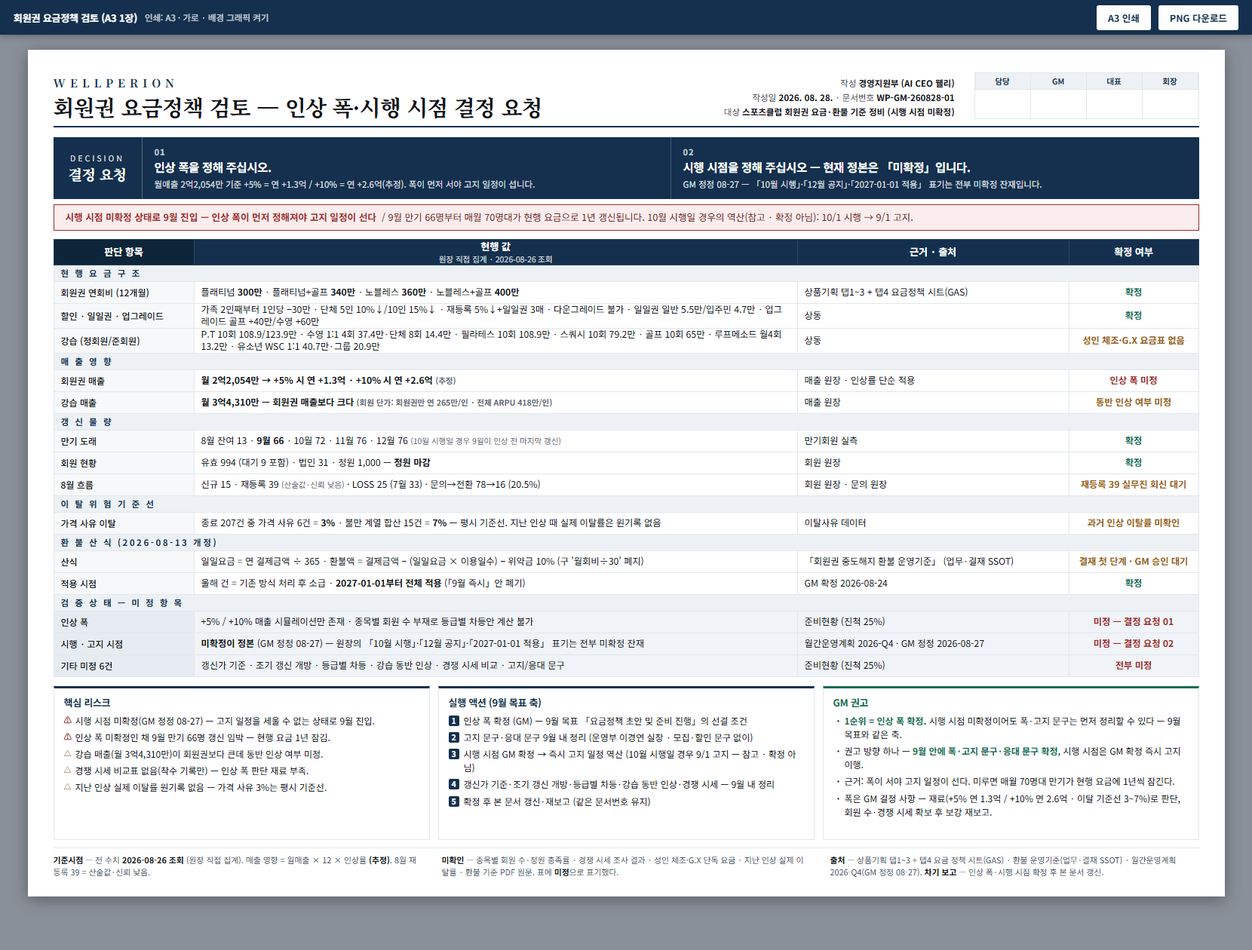
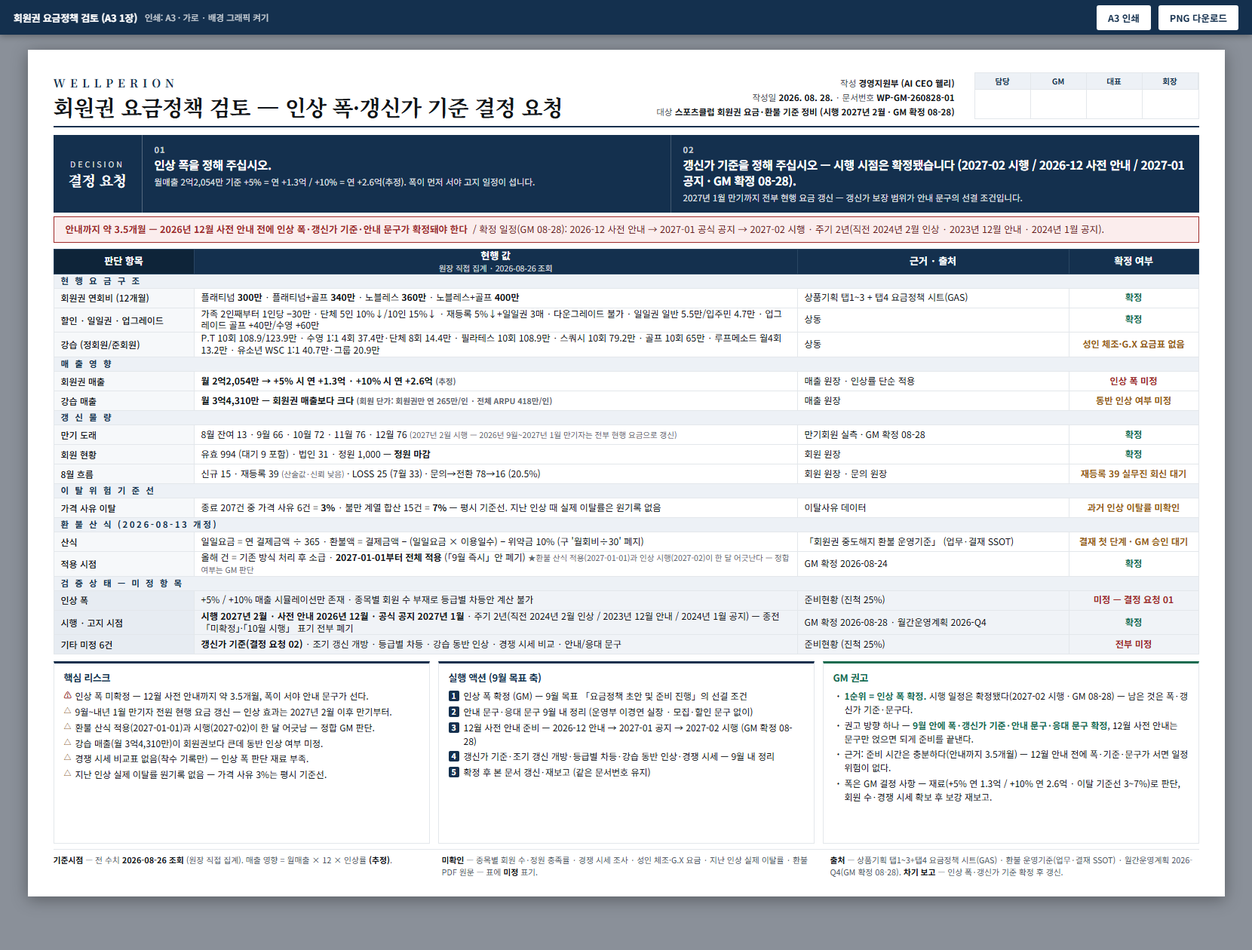
feat(ceo): 요금 인상 시행 시점 GM 확정 반영 — 2027-02 시행·2026-12 안내·2027-01 공지 (배11045·11048)

diff --git a/3. 웰페리온 가이드/reports/260828_회원권요금정책_A3.html b/3. 웰페리온 가이드/reports/260828_회원권요금정책_A3.html
@@ -2,7 +2,7 @@
 <html lang="ko">
 <head>
 <meta charset="UTF-8">
-<title>회원권 요금정책 검토 — 인상 폭·시행 시점 결정 요청 (웰페리온 A3)</title>
+<title>회원권 요금정책 검토 — 인상 폭·갱신가 기준 결정 요청 (웰페리온 A3)</title>
 <link rel="preconnect" href="https://fonts.googleapis.com">
 <link rel="preconnect" href="https://fonts.gstatic.com" crossorigin>
 <link href="https://fonts.googleapis.com/css2?family=Noto+Sans+KR:wght@400;500;700;900&family=Noto+Serif+KR:wght@600;700&display=swap" rel="stylesheet">
@@ -47,7 +47,7 @@
   .sign .b{ height:38px; }
 
   /* ② 결정 요청 */
-  .ask{ margin-top:13px; background:var(--navy); color:#fff; display:flex; align-items:stretch; }
+  .ask{ margin-top:10px; background:var(--navy); color:#fff; display:flex; align-items:stretch; }
   .ask .lb{ width:118px; flex:none; display:flex; flex-direction:column; align-items:center; justify-content:center;
     border-right:1px solid rgba(255,255,255,.28); }
   .ask .lb span{ font-size:10.5px; letter-spacing:3px; opacity:.85; }
@@ -60,20 +60,20 @@
   .ask .d{ font-size:11.5px; line-height:1.5; opacity:.86; margin-top:4px; }
 
   /* 경고 밴드 */
-  .alert{ margin-top:7px; background:#FBEDED; border:1.5px solid var(--bad); color:var(--bad);
+  .alert{ margin-top:5px; background:#FBEDED; border:1.5px solid var(--bad); color:var(--bad);
     padding:7px 15px; font-size:12.6px; font-weight:700; line-height:1.5; }
   .alert span{ font-weight:400; color:#6B2020; }
 
   /* ③ 비교표 */
-  .tblwrap{ margin-top:11px; }
+  .tblwrap{ margin-top:8px; }
   table{ width:100%; border-collapse:collapse; table-layout:fixed; }
   th,td{ border:1px solid var(--line); padding:0 9px; font-size:12.2px; line-height:1.3; }
-  thead th{ height:34px; background:var(--navy); color:#fff; font-weight:700; font-size:13px; border-color:#2A4763; }
+  thead th{ height:30px; background:var(--navy); color:#fff; font-weight:700; font-size:13px; border-color:#2A4763; }
   thead th.k{ width:186px; background:#0E2439; }
   thead th .sub{ display:block; font-size:10.5px; font-weight:400; opacity:.8; margin-top:1px; }
-  tbody td{ height:29px; }
+  tbody td{ height:26px; }
   td.k{ background:#F6F8FA; font-weight:500; font-size:12px; }
-  tr.grp td{ height:22px; background:var(--navy-bg); color:var(--navy); font-weight:700;
+  tr.grp td{ height:19px; background:var(--navy-bg); color:var(--navy); font-weight:700;
     font-size:11.5px; letter-spacing:2.5px; }
   .num{ text-align:right; font-variant-numeric:tabular-nums; }
   .ctr{ text-align:center; }
@@ -86,11 +86,11 @@
   tr.sum td.k{ background:#E7ECF2; }
 
   /* ④ 3분할 */
-  .cols{ margin-top:12px; display:flex; gap:11px; flex:1; }
+  .cols{ margin-top:9px; display:flex; gap:11px; flex:1; }
   .box{ flex:1; border:1px solid var(--line); border-top:3px solid var(--navy); padding:9px 13px 8px; }
   .box h3{ font-size:13px; font-weight:700; color:var(--navy); letter-spacing:-.3px; margin-bottom:6px; }
   .box ul{ list-style:none; }
-  .box li{ font-size:12px; line-height:1.52; padding-left:15px; position:relative; margin-bottom:4px; }
+  .box li{ font-size:12px; line-height:1.48; padding-left:15px; position:relative; margin-bottom:3px; }
   .box li::before{ content:'·'; position:absolute; left:5px; font-weight:700; }
   .box li.r1::before{ content:'⚠'; left:0; font-size:10.5px; color:var(--bad); }
   .box li.r2::before{ content:'△'; left:0; font-size:10px; color:var(--warn); }
@@ -103,7 +103,7 @@
   .box.rec b{ color:var(--good); }
 
   /* ⑤ 각주 */
-  .foot{ margin-top:10px; border-top:1px solid var(--line); padding-top:7px;
+  .foot{ margin-top:7px; border-top:1px solid var(--line); padding-top:5px;
     display:flex; gap:26px; font-size:10.8px; line-height:1.55; color:#48525B; }
   .foot div{ flex:1; }
   .foot b{ color:var(--ink); }
@@ -125,12 +125,12 @@
   <div class="head">
     <div>
       <div class="brand">WELLPERION</div>
-      <div class="title">회원권 요금정책 검토 — 인상 폭·시행 시점 결정 요청</div>
+      <div class="title">회원권 요금정책 검토 — 인상 폭·갱신가 기준 결정 요청</div>
     </div>
     <div class="meta">
       작성 <b>경영지원부 (AI CEO 웰리)</b><br>
       작성일 <b>2026. 08. 28.</b> · 문서번호 <b>WP-GM-260828-01</b><br>
-      대상 <b>스포츠클럽 회원권 요금·환불 기준 정비 (시행 시점 미확정)</b>
+      대상 <b>스포츠클럽 회원권 요금·환불 기준 정비 (시행 2027년 2월 · GM 확정 08-28)</b>
     </div>
     <div class="sign">
       <div><div class="t">담당</div><div class="b"></div></div>
@@ -151,16 +151,16 @@
       </div>
       <div class="it">
         <div class="n">02</div>
-        <div class="q">시행 시점을 정해 주십시오 — 현재 정본은 「미확정」입니다.</div>
-        <div class="d">GM 정정 08-27 — 「10월 시행」·「12월 공지」·「2027-01-01 적용」 표기는 전부 미확정 잔재입니다.</div>
+        <div class="q">갱신가 기준을 정해 주십시오 — 시행 시점은 확정됐습니다 (2027-02 시행 / 2026-12 사전 안내 / 2027-01 공지 · GM 확정 08-28).</div>
+        <div class="d">2027년 1월 만기까지 전부 현행 요금 갱신 — 갱신가 보장 범위가 안내 문구의 선결 조건입니다.</div>
       </div>
     </div>
   </div>
 
   <!-- 경고 밴드 -->
   <div class="alert">
-    시행 시점 미확정 상태로 9월 진입 — 인상 폭이 먼저 정해져야 고지 일정이 선다
-    <span>&nbsp;/ 9월 만기 66명부터 매월 70명대가 현행 요금으로 1년 갱신됩니다. 10월 시행일 경우의 역산(참고 · 확정 아님): 10/1 시행 → 9/1 고지.</span>
+    안내까지 약 3.5개월 — 2026년 12월 사전 안내 전에 인상 폭·갱신가 기준·안내 문구가 확정돼야 한다
+    <span>&nbsp;/ 확정 일정(GM 08-28): 2026-12 사전 안내 → 2027-01 공식 공지 → 2027-02 시행 · 주기 2년(직전 2024년 2월 인상 · 2023년 12월 안내 · 2024년 1월 공지).</span>
   </div>
 
   <!-- ③ 판단표 -->
@@ -186,7 +186,7 @@
       <tr><td class="k">강습 매출</td><td class="strong">월 3억4,310만 — 회원권 매출보다 크다 <span class="est">(회원 단가: 회원권만 연 265만/인 · 전체 ARPU 418만/인)</span></td><td>매출 원장</td><td class="ctr warn">동반 인상 여부 미정</td></tr>
 
       <tr class="grp"><td colspan="4">갱 신 물 량</td></tr>
-      <tr><td class="k">만기 도래</td><td>8월 잔여 13 · <b>9월 66</b> · 10월 72 · 11월 76 · 12월 76 <span class="est">(10월 시행일 경우 9월이 인상 전 마지막 갱신)</span></td><td>만기회원 실측</td><td class="ctr good">확정</td></tr>
+      <tr><td class="k">만기 도래</td><td>8월 잔여 13 · 9월 66 · 10월 72 · 11월 76 · 12월 76 <span class="est">(2027년 2월 시행 — 2026년 9월~2027년 1월 만기자는 전부 현행 요금으로 갱신)</span></td><td>만기회원 실측 · GM 확정 08-28</td><td class="ctr good">확정</td></tr>
       <tr><td class="k">회원 현황</td><td>유효 994 (대기 9 포함) · 법인 31 · 정원 1,000 — <b>정원 마감</b></td><td>회원 원장</td><td class="ctr good">확정</td></tr>
       <tr><td class="k">8월 흐름</td><td>신규 15 · 재등록 39 <span class="est">(산술값·신뢰 낮음)</span> · LOSS 25 (7월 33) · 문의→전환 78→16 (20.5%)</td><td>회원 원장 · 문의 원장</td><td class="ctr warn">재등록 39 실무진 회신 대기</td></tr>
 
@@ -195,12 +195,12 @@
 
       <tr class="grp"><td colspan="4">환 불 산 식 (2026-08-13 개정)</td></tr>
       <tr><td class="k">산식</td><td>일일요금 = 연 결제금액 ÷ 365 · 환불액 = 결제금액 − (일일요금 × 이용일수) − 위약금 10% (구 '월회비÷30' 폐지)</td><td>「회원권 중도해지 환불 운영기준」 (업무·결재 SSOT)</td><td class="ctr warn">결재 첫 단계 · GM 승인 대기</td></tr>
-      <tr><td class="k">적용 시점</td><td>올해 건 = 기존 방식 처리 후 소급 · <b>2027-01-01부터 전체 적용</b> (「9월 즉시」안 폐기)</td><td>GM 확정 2026-08-24</td><td class="ctr good">확정</td></tr>
+      <tr><td class="k">적용 시점</td><td>올해 건 = 기존 방식 처리 후 소급 · <b>2027-01-01부터 전체 적용</b> (「9월 즉시」안 폐기) <span class="est">★환불 산식 적용(2027-01-01)과 인상 시행(2027-02)이 한 달 어긋난다 — 정합 여부는 GM 판단</span></td><td>GM 확정 2026-08-24</td><td class="ctr good">확정</td></tr>
 
       <tr class="grp"><td colspan="4">검 증 상 태 — 미 정 항 목</td></tr>
       <tr class="sum"><td class="k">인상 폭</td><td>+5% / +10% 매출 시뮬레이션만 존재 · 종목별 회원 수 부재로 등급별 차등안 계산 불가</td><td>준비현황 (진척 25%)</td><td class="ctr bad strong">미정 — 결정 요청 01</td></tr>
-      <tr class="sum"><td class="k">시행 · 고지 시점</td><td><b>미확정이 정본</b> (GM 정정 08-27) — 원장의 「10월 시행」·「12월 공지」·「2027-01-01 적용」 표기는 전부 미확정 잔재</td><td>월간운영계획 2026-Q4 · GM 정정 2026-08-27</td><td class="ctr bad strong">미정 — 결정 요청 02</td></tr>
-      <tr class="sum"><td class="k">기타 미정 6건</td><td>갱신가 기준 · 조기 갱신 개방 · 등급별 차등 · 강습 동반 인상 · 경쟁 시세 비교 · 고지/응대 문구</td><td>준비현황 (진척 25%)</td><td class="ctr bad strong">전부 미정</td></tr>
+      <tr class="sum"><td class="k">시행 · 고지 시점</td><td><b>시행 2027년 2월 · 사전 안내 2026년 12월 · 공식 공지 2027년 1월</b> · 주기 2년(직전 2024년 2월 인상 / 2023년 12월 안내 / 2024년 1월 공지) — 종전 「미확정」·「10월 시행」 표기 전부 폐기</td><td>GM 확정 2026-08-28 · 월간운영계획 2026-Q4</td><td class="ctr good strong">확정</td></tr>
+      <tr class="sum"><td class="k">기타 미정 6건</td><td><b>갱신가 기준(결정 요청 02)</b> · 조기 갱신 개방 · 등급별 차등 · 강습 동반 인상 · 경쟁 시세 비교 · 안내/응대 문구</td><td>준비현황 (진척 25%)</td><td class="ctr bad strong">전부 미정</td></tr>
     </tbody>
   </table>
   </div>
@@ -210,8 +210,9 @@
     <div class="box">
       <h3>핵심 리스크</h3>
       <ul>
-        <li class="r1">시행 시점 미확정(GM 정정 08-27) — 고지 일정을 세울 수 없는 상태로 9월 진입.</li>
-        <li class="r1">인상 폭 미확정인 채 9월 만기 66명 갱신 임박 — 현행 요금 1년 잠김.</li>
+        <li class="r1">인상 폭 미확정 — 12월 사전 안내까지 약 3.5개월, 폭이 서야 안내 문구가 선다.</li>
+        <li class="r2">9월~내년 1월 만기자 전원 현행 요금 갱신 — 인상 효과는 2027년 2월 이후 만기부터.</li>
+        <li class="r2">환불 산식 적용(2027-01-01)과 시행(2027-02)이 한 달 어긋남 — 정합 GM 판단.</li>
         <li class="r2">강습 매출(월 3억4,310만)이 회원권보다 큰데 동반 인상 여부 미정.</li>
         <li class="r2">경쟁 시세 비교표 없음(착수 기록만) — 인상 폭 판단 재료 부족.</li>
         <li class="r2">지난 인상 실제 이탈률 원기록 없음 — 가격 사유 3%는 평시 기준선.</li>
@@ -221,8 +222,8 @@
       <h3>실행 액션 (9월 목표 축)</h3>
       <ul class="ord">
         <li class="n">인상 폭 확정 (GM) — 9월 목표 「요금정책 초안 및 준비 진행」의 선결 조건</li>
-        <li class="n">고지 문구·응대 문구 9월 내 정리 (운영부 이경연 실장 · 모집·할인 문구 없이)</li>
-        <li class="n">시행 시점 GM 확정 → 즉시 고지 일정 역산 (10월 시행일 경우 9/1 고지 — 참고 · 확정 아님)</li>
+        <li class="n">안내 문구·응대 문구 9월 내 정리 (운영부 이경연 실장 · 모집·할인 문구 없이)</li>
+        <li class="n">12월 사전 안내 준비 — 2026-12 안내 → 2027-01 공지 → 2027-02 시행 (GM 확정 08-28)</li>
         <li class="n">갱신가 기준·조기 갱신 개방·등급별 차등·강습 동반 인상·경쟁 시세 — 9월 내 정리</li>
         <li class="n">확정 후 본 문서 갱신·재보고 (같은 문서번호 유지)</li>
       </ul>
@@ -230,9 +231,9 @@
     <div class="box rec">
       <h3>GM 권고</h3>
       <ul>
-        <li><b>1순위 = 인상 폭 확정.</b> 시행 시점 미확정이어도 폭·고지 문구는 먼저 정리할 수 있다 — 9월 목표와 같은 축.</li>
-        <li>권고 방향 하나 — <b>9월 안에 폭·고지 문구·응대 문구 확정</b>, 시행 시점은 GM 확정 즉시 고지 이행.</li>
-        <li>근거: 폭이 서야 고지 일정이 선다. 미루면 매월 70명대 만기가 현행 요금에 1년씩 잠긴다.</li>
+        <li><b>1순위 = 인상 폭 확정.</b> 시행 일정은 확정됐다(2027-02 시행 · GM 08-28) — 남은 것은 폭·갱신가 기준·문구다.</li>
+        <li>권고 방향 하나 — <b>9월 안에 폭·갱신가 기준·안내 문구·응대 문구 확정</b>, 12월 사전 안내는 문구만 얹으면 되게 준비를 끝낸다.</li>
+        <li>근거: 준비 시간은 충분하다(안내까지 3.5개월) — 12월 안내 전에 폭·기준·문구가 서면 일정 위험이 없다.</li>
         <li>폭은 GM 결정 사항 — 재료(+5% 연 1.3억 / +10% 연 2.6억 · 이탈 기준선 3~7%)로 판단, 회원 수·경쟁 시세 확보 후 보강 재보고.</li>
       </ul>
     </div>
@@ -240,9 +241,9 @@
 
   <!-- ⑤ 각주 -->
   <div class="foot">
-    <div><b>기준시점</b> — 전 수치 <b>2026-08-26 조회</b> (원장 직접 집계). 매출 영향 = 월매출 × 12 × 인상률 <b>(추정)</b>. 8월 재등록 39 = 산술값·신뢰 낮음.</div>
-    <div><b>미확인</b> — 종목별 회원 수·정원 충족률 · 경쟁 시세 조사 결과 · 성인 체조·G.X 단독 요금 · 지난 인상 실제 이탈률 · 환불 기준 PDF 원문. 표에 <b>미정</b>으로 표기했다.</div>
-    <div><b>출처</b> — 상품기획 탭1~3 + 탭4 요금 정책 시트(GAS) · 환불 운영기준(업무·결재 SSOT) · 월간운영계획 2026-Q4(GM 정정 08-27). <b>차기 보고</b> — 인상 폭·시행 시점 확정 후 본 문서 갱신.</div>
+    <div><b>기준시점</b> — 전 수치 <b>2026-08-26 조회</b> (원장 직접 집계). 매출 영향 = 월매출 × 12 × 인상률 <b>(추정)</b>.</div>
+    <div><b>미확인</b> — 종목별 회원 수·정원 충족률 · 경쟁 시세 조사 · 성인 체조·G.X 요금 · 지난 인상 실제 이탈률 · 환불 PDF 원문 — 표에 <b>미정</b> 표기.</div>
+    <div><b>출처</b> — 상품기획 탭1~3+탭4 요금정책 시트(GAS) · 환불 운영기준(업무·결재 SSOT) · 월간운영계획 2026-Q4(GM 확정 08-28). <b>차기 보고</b> — 인상 폭·갱신가 기준 확정 후 갱신.</div>
   </div>
 
 </div>

diff --git a/3. 웰페리온 가이드/reports/260828_4분기_방향및계획_A3.html b/3. 웰페리온 가이드/reports/260828_4분기_방향및계획_A3.html
@@ -47,7 +47,7 @@
   .sign .b{ height:38px; }
 
   /* ② 결정 요청 */
-  .ask{ margin-top:13px; background:var(--navy); color:#fff; display:flex; align-items:stretch; }
+  .ask{ margin-top:10px; background:var(--navy); color:#fff; display:flex; align-items:stretch; }
   .ask .lb{ width:118px; flex:none; display:flex; flex-direction:column; align-items:center; justify-content:center;
     border-right:1px solid rgba(255,255,255,.28); }
   .ask .lb span{ font-size:10.5px; letter-spacing:3px; opacity:.85; }
@@ -60,20 +60,20 @@
   .ask .d{ font-size:11.5px; line-height:1.5; opacity:.86; margin-top:4px; }
 
   /* 경고 밴드 */
-  .alert{ margin-top:7px; background:#FBEDED; border:1.5px solid var(--bad); color:var(--bad);
+  .alert{ margin-top:5px; background:#FBEDED; border:1.5px solid var(--bad); color:var(--bad);
     padding:7px 15px; font-size:12.6px; font-weight:700; line-height:1.5; }
   .alert span{ font-weight:400; color:#6B2020; }
 
   /* ③ 비교표 */
-  .tblwrap{ margin-top:11px; }
+  .tblwrap{ margin-top:8px; }
   table{ width:100%; border-collapse:collapse; table-layout:fixed; }
   th,td{ border:1px solid var(--line); padding:0 9px; font-size:12.2px; line-height:1.3; }
-  thead th{ height:34px; background:var(--navy); color:#fff; font-weight:700; font-size:13px; border-color:#2A4763; }
+  thead th{ height:30px; background:var(--navy); color:#fff; font-weight:700; font-size:13px; border-color:#2A4763; }
   thead th.k{ width:186px; background:#0E2439; }
   thead th .sub{ display:block; font-size:10.5px; font-weight:400; opacity:.8; margin-top:1px; }
-  tbody td{ height:29px; }
+  tbody td{ height:26px; }
   td.k{ background:#F6F8FA; font-weight:500; font-size:12px; }
-  tr.grp td{ height:22px; background:var(--navy-bg); color:var(--navy); font-weight:700;
+  tr.grp td{ height:19px; background:var(--navy-bg); color:var(--navy); font-weight:700;
     font-size:11.5px; letter-spacing:2.5px; }
   .num{ text-align:right; font-variant-numeric:tabular-nums; }
   .ctr{ text-align:center; }
@@ -86,11 +86,11 @@
   tr.sum td.k{ background:#E7ECF2; }
 
   /* ④ 3분할 */
-  .cols{ margin-top:12px; display:flex; gap:11px; flex:1; }
+  .cols{ margin-top:9px; display:flex; gap:11px; flex:1; }
   .box{ flex:1; border:1px solid var(--line); border-top:3px solid var(--navy); padding:9px 13px 8px; }
   .box h3{ font-size:13px; font-weight:700; color:var(--navy); letter-spacing:-.3px; margin-bottom:6px; }
   .box ul{ list-style:none; }
-  .box li{ font-size:12px; line-height:1.52; padding-left:15px; position:relative; margin-bottom:4px; }
+  .box li{ font-size:12px; line-height:1.48; padding-left:15px; position:relative; margin-bottom:3px; }
   .box li::before{ content:'·'; position:absolute; left:5px; font-weight:700; }
   .box li.r1::before{ content:'⚠'; left:0; font-size:10.5px; color:var(--bad); }
   .box li.r2::before{ content:'△'; left:0; font-size:10px; color:var(--warn); }
@@ -103,7 +103,7 @@
   .box.rec b{ color:var(--good); }
 
   /* ⑤ 각주 */
-  .foot{ margin-top:10px; border-top:1px solid var(--line); padding-top:7px;
+  .foot{ margin-top:7px; border-top:1px solid var(--line); padding-top:5px;
     display:flex; gap:26px; font-size:10.8px; line-height:1.55; color:#48525B; }
   .foot div{ flex:1; }
   .foot b{ color:var(--ink); }
@@ -130,7 +130,7 @@
     <div class="meta">
       작성 <b>경영지원부 (AI CEO 웰리)</b><br>
       작성일 <b>2026. 08. 28.</b> · 문서번호 <b>WP-GM-260828-01</b><br>
-      방향 정본 <b>GM 확정 2026-08-26</b> — 3단계 브랜드 구축 + 회원권 요금 인상 준비
+      방향 정본 <b>GM 확정 2026-08-26</b> — 3단계 브랜드 구축 + 회원권 요금 인상 준비 · 요금 일정 <b>GM 확정 08-28</b>
     </div>
     <div class="sign">
       <div><div class="t">담당</div><div class="b"></div></div>
@@ -146,8 +146,8 @@
     <div class="items">
       <div class="it">
         <div class="n">01</div>
-        <div class="q">회원권 요금 인상 시행 시점을 정해 주십시오 — 정해지기 전에는 고지·헬스장 장비 교체·법인 멤버십 판매 일정이 전부 매달려 있습니다.</div>
-        <div class="d">현재 정본 = 미확정(GM 정정 08-27: 시행 시점은 10월이 아니다). 세 표기(10월·12월·2027-01)는 전부 미확정 잔재.</div>
+        <div class="q">지원부·경영지원 4분기 목표를 확정해 주십시오 — 요금 인상 시행 시점은 확정됐습니다 (2027-02 시행 / 2026-12 사전 안내 / 2027-01 공지 · GM 확정 08-28).</div>
+        <div class="d">5개 부서 draft 중 지원부(95% 목표 연장 여부)·경영지원(나우열M)만 목표 미정. 인상 폭은 별지 요금정책 A3에서 결정 요청.</div>
       </div>
       <div class="it">
         <div class="n">02</div>
@@ -178,20 +178,20 @@
     </thead>
     <tbody>
       <tr class="grp"><td colspan="5">4 분 기 &nbsp;판 — 부 서 &nbsp;목 표 · 월 별 &nbsp;(5 부 서 &nbsp;전 부 &nbsp;DRAFT · 원 장 &nbsp;값 &nbsp;그 대 로)</td></tr>
-      <tr class="sum"><td class="k">운영부</td><td>10월 공사 안내·통제 + 법인 응대 준비 / 11월 회장님 3종 지원 / 12월 송년회·접수처 적체 해소</td><td class="ctr">—</td><td class="ctr">draft — 요금 인상 고지·응대 준비 + 상가·주차 운영 안정화</td><td>목표 확정 · 지표 미연결(점검 집계 경로 문제)</td></tr>
+      <tr class="sum"><td class="k">운영부</td><td>10월 공사 안내·통제 + 법인 응대 준비 / 11월 회장님 3종 지원 / 12월 송년회·접수처 적체 해소</td><td class="ctr">—</td><td class="ctr">draft — 요금 인상 사전 안내 준비(2026-12) + 상가·주차 운영 안정화</td><td>목표 확정 · 지표 미연결(점검 집계 경로 문제)</td></tr>
       <tr class="sum"><td class="k">시설부</td><td>10월 공사 관리·헬스장 비딩 결론 / 11월 전기 11/10·설비 3종 / 12월 소방 12/18(대상 확인)·CCTV 이관</td><td class="ctr">—</td><td class="ctr">draft — 법정·정기 점검 기한 준수 + 설비 교체 마무리</td><td>목표 확정 · 지표=점검 회차 기준(완료율 아님)</td></tr>
-      <tr class="sum"><td class="k">지원부 · 경영지원</td><td class="ctr">10~12월 전부 <span class="bad">미정</span></td><td class="ctr">—</td><td class="ctr bad">draft — 목표 자체 미정</td><td class="strong">지원부=GM·이경연 실장(3분기 95% 연장 여부) / 경영지원=나우열M(AI 불개입)</td></tr>
+      <tr class="sum"><td class="k">지원부 · 경영지원</td><td class="ctr">10~12월 전부 <span class="bad">미정</span></td><td class="ctr">—</td><td class="ctr bad">draft — 목표 자체 미정</td><td class="strong">결정 01 — 지원부=GM·이경연 실장(95% 연장 여부) / 경영지원=나우열M</td></tr>
       <tr class="sum"><td class="k">주차관리부</td><td>10월 통제·10/13 정상 복귀 / 11월 집계 가동 확인(실데이터 0) / 12월 주차 매출 월 마감 정합</td><td class="ctr">—</td><td class="ctr">draft — 바닥보수 후 정상 복귀 + 점검 집계 경로 가동</td><td>목표 확정 · 집계 폴백 수리 뒤 지표 연결</td></tr>
       <tr class="grp"><td colspan="5">시 설 · 설 비 &nbsp;밸 류 업</td></tr>
       <tr><td class="k">주차장 바닥보수공사</td><td class="ctr">10/11 작업 · 10/12(월·영업일) 양생 전면통제 · 10/13 정상</td><td class="ctr bad">공사비 미확인 — 원장 어디에도 없음</td><td class="ctr">65%</td><td>대체 주차 면수 확정 → 상가·회원 공지 (현재 발송 불가)</td></tr>
-      <tr><td class="k">헬스장 장비 교체 (4사 비딩)</td><td class="ctr">요금 인상 1개월 전 완료 — 시행 시점(결정 01)에 종속</td><td class="ctr bad">전액 미정 — 같은 조건 견적 0건</td><td class="ctr">50%</td><td>사양 통일 재견적 → 4사 비교 후 결재</td></tr>
+      <tr><td class="k">헬스장 장비 교체 (4사 비딩)</td><td class="ctr">사전 안내 한 달 전 = <b>2026-11 완료</b> (GM 08-28 역산)</td><td class="ctr bad">전액 미정 — 같은 조건 견적 0건</td><td class="ctr">50%</td><td>사양 통일 재견적 → 4사 비교 후 결재</td></tr>
       <tr><td class="k">CCTV·무인경비·출입통제</td><td class="ctr">SK브로드밴드 12/31 종료 · 공사 약 10일</td><td class="ctr">무인경비 월 13만 / CCTV 월 75만 → 100대 재산정</td><td>무인경비 <span class="good">서명 완료 8/25</span> · CCTV <span class="bad">본계약 미체결</span> (80%)</td><td class="strong">결정 02 — 재견적 회수 즉시 본계약</td></tr>
-      <tr><td class="k">회장님 보고건 3종 <span class="est">소독기·사우나 입구·드라이기</span></td><td class="ctr">11/30 — “인상 공지 한 달 전 완료” 명기 <span class="est">(시행월 미확정)</span></td><td class="ctr">미확인</td><td class="ctr">진행 중</td><td>시행 시점(결정 01) 확정 시 기한 재검토</td></tr>
+      <tr><td class="k">회장님 보고건 3종 <span class="est">소독기·사우나 입구·드라이기</span></td><td class="ctr">11/30 = <b>12월 사전 안내 한 달 전</b> (확정 · GM 08-28)</td><td class="ctr">미확인</td><td class="ctr">진행 중</td><td>기한 기준 확정 — 11/30 유지</td></tr>
 
       <tr class="grp"><td colspan="5">요 금 &nbsp;인 상 &nbsp;준 비 · 매 출</td></tr>
-      <tr><td class="k">회원권 요금 인상</td><td class="ctr bad">시행월 미확정 (GM 정정 08-27) — 원장 세 표기 전부 잔재</td><td class="ctr">+5% 월 1,103만 / +10% 월 2,205만 <span class="est">(추정)</span></td><td class="ctr">25%</td><td class="strong">결정 01 — 시행 시점·인상폭 확정</td></tr>
+      <tr><td class="k">회원권 요금 인상</td><td class="ctr good">2027-02 시행 / 2026-12 안내 / 2027-01 공지 (GM 08-28·주기 2년)</td><td class="ctr">+5% 월 1,103만 / +10% 월 2,205만 <span class="est">(추정)</span></td><td class="ctr">25%</td><td class="strong">인상 폭 확정(별지 요금정책 A3) → 12월 안내 문구 준비</td></tr>
       <tr><td class="k">법인 멤버십 판매</td><td class="ctr">10/31 판매 시작</td><td class="ctr">미확인</td><td class="ctr warn">30% — 접촉 0건</td><td>9월 중 대상 법인 접촉 개시</td></tr>
-      <tr><td class="k">갱신(만기) 물량</td><td class="ctr">9월 66명(인상 전 마지막) · 10월 72 · 11월 76 · 12월 76</td><td class="ctr">—</td><td class="ctr">가격 사유 이탈 = 종료 207건 중 6건(3%)</td><td>9월 갱신 안내 문안 — 인상 반영 여부는 결정 01에 종속</td></tr>
+      <tr><td class="k">갱신(만기) 물량</td><td class="ctr">9월 66·10월 72·11월 76·12월 76 — <b>2027-01까지 전부 현행 갱신</b></td><td class="ctr">—</td><td class="ctr">가격 사유 이탈 = 종료 207건 중 6건(3%)</td><td>갱신 안내 문안 = 현행 요금 기준 — 인상 내용은 2026-12 사전 안내부터</td></tr>
       <tr class="sum"><td class="k">4분기 매출 목표</td><td class="ctr">—</td><td class="ctr">연 목표 72억 · 월 6.6억</td><td class="ctr bad">하반기·4분기 전용 목표 문서 없음 = 미정</td><td>Q4 부서 목표·지표 확정과 함께 확정</td></tr>
 
       <tr class="grp"><td colspan="5">공 간 &nbsp;활 용 · 브 랜 드</td></tr>
@@ -210,7 +210,7 @@
     <div class="box">
       <h3>핵심 리스크</h3>
       <ul>
-        <li class="r1">요금 인상 시행월 미확정(GM 정정 08-27) — 고지·장비·법인 판매 대기.</li>
+        <li class="r1">인상 폭 미확정 — 12월 사전 안내 전에 폭·갱신가 기준·문구 확정 필요(약 3.5개월).</li>
         <li class="r1">SK브로드밴드 12/31 종료 — CCTV 미체결·계약→공사(10일)→검수 잔여 부족.</li>
         <li class="r1">대체 주차 면수 미확정 — 상가·회원 공지 불가, 10/12은 영업일 전면 통제.</li>
         <li class="r1">배101 미착수 시 회원 개인정보 무인증 노출이 4분기 내내 유지.</li>
@@ -220,7 +220,7 @@
     <div class="box">
       <h3>실행 액션 — 9월에 끝낼 것</h3>
       <ul class="ord">
-        <li class="n"><b>부서 목표 draft → 확정 전환</b>(지원·경영지원 신규 포함) — 4분기 계획의 실체.</li>
+        <li class="n"><b>부서 목표 draft → 확정 전환</b>(지원·경영지원 = 결정 01) — 4분기 계획의 실체.</li>
         <li class="n">9월 축(GM 확정) — ①요금정책 초안 ②부서 평가·개선 ③ERP·브로제이 안정화.</li>
         <li class="n">전사일정 옛 주차장 일정 2건 정리 → 대체 면수 확정 → 상가·회원 공지.</li>
         <li class="n">CCTV 100대 기준 재견적 회수 → 본계약 상신(결정 02).</li>
@@ -230,7 +230,7 @@
     <div class="box rec">
       <h3>GM 권고</h3>
       <ul>
-        <li>방향(GM 08-26) = <b>3단계 브랜드 구축 + 요금 인상 준비</b> · 첫 단추 = <b>결정 01</b> — 9월 실행 5건이 4분기 성패를 정한다.</li>
+        <li>방향(GM 08-26) = <b>3단계 브랜드 구축 + 요금 인상 준비</b> · 요금 일정 확정(GM 08-28: 2027-02 시행) — 9월 실행 5건이 4분기 성패를 정한다.</li>
         <li>정원 마감(유효 994/정원 1,000) — 모집·할인 없이 갱신·소개자 중심 유지.</li>
       </ul>
     </div>
@@ -238,8 +238,8 @@
 
   <!-- ⑤ 각주 -->
   <div class="foot">
-    <div><b>기준시점</b> — 전 수치 2026-08-26 원장 조회(정정 08-27: 시행월 미확정·2분기 포상 지급 완료). 인상 시나리오=회원권 월 2억2,054만 기준<b>(추정)</b>. 정기 반복=승강기·소독 각 월 1회.</div>
-    <div><b>미확보</b> — 주차장 공사비·브로제이 총액/잔금·헬스장 장비/공간 디자인 견적·4분기 매출 목표 문서(없음이 결론)·강습 정원값·저수조/방제/소방교육 실시일·계약 만료 대장·8월 확정 매출.</div>
+    <div><b>기준시점</b> — 전 수치 2026-08-26 원장 조회. 요금 일정 = GM 확정 08-28(2027-02 시행·2026-12 안내·2027-01 공지·주기 2년). 인상 시나리오=월 2억2,054만 기준<b>(추정)</b>.</div>
+    <div><b>미확보</b> — 주차장 공사비·브로제이 총액/잔금·헬스장 장비/공간 디자인 견적·4분기 매출 목표 문서·강습 정원값·저수조/방제/소방교육 실시일·계약 만료 대장·8월 확정 매출.</div>
     <div><b>출처</b> — 업무 큐 원장(배 11048)·월간운영계획 2026-Q4(부서 목표·월별 draft 원장 값)·전사일정·매출 3소스. <b>차기 보고</b> — 결정 01+부서 draft 확정 후 갱신(같은 문서번호).</div>
   </div>
 
